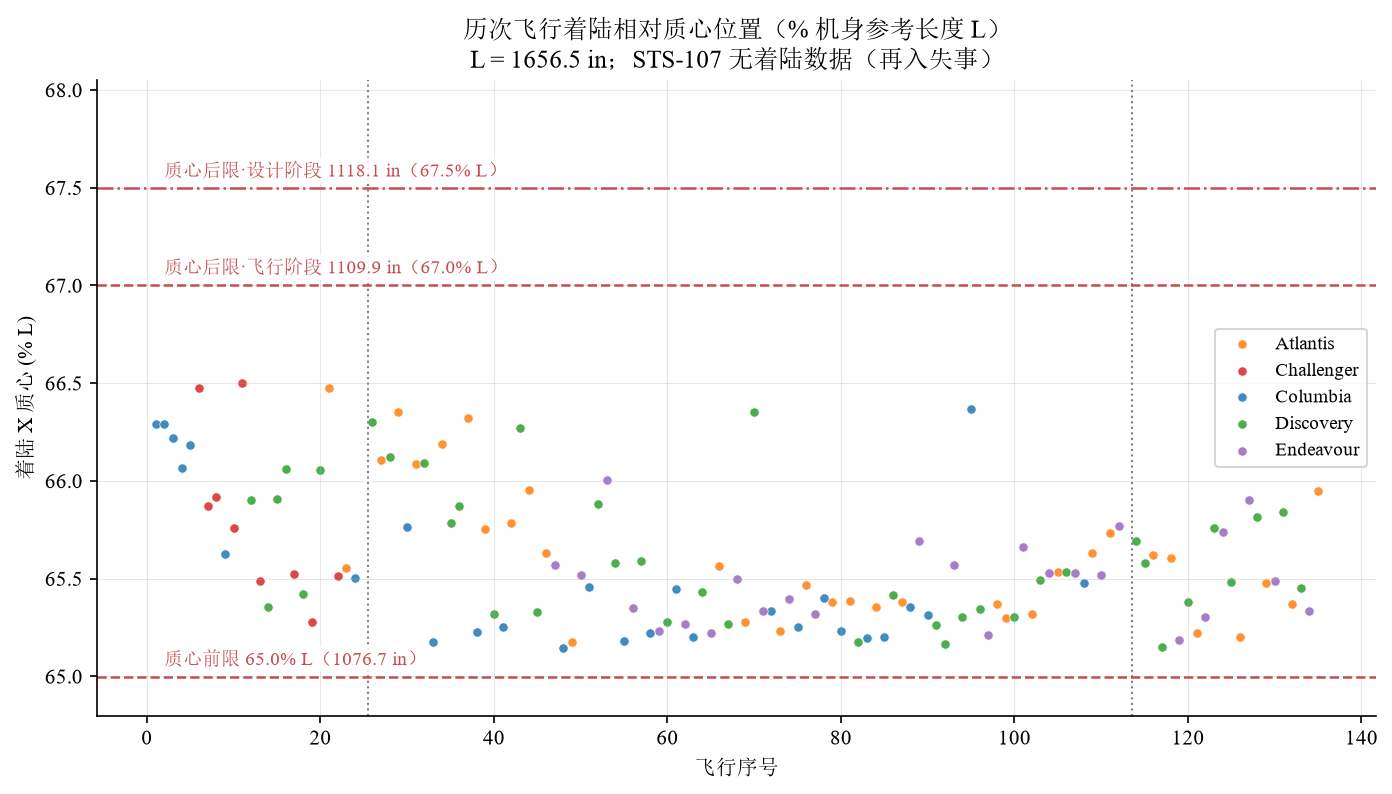
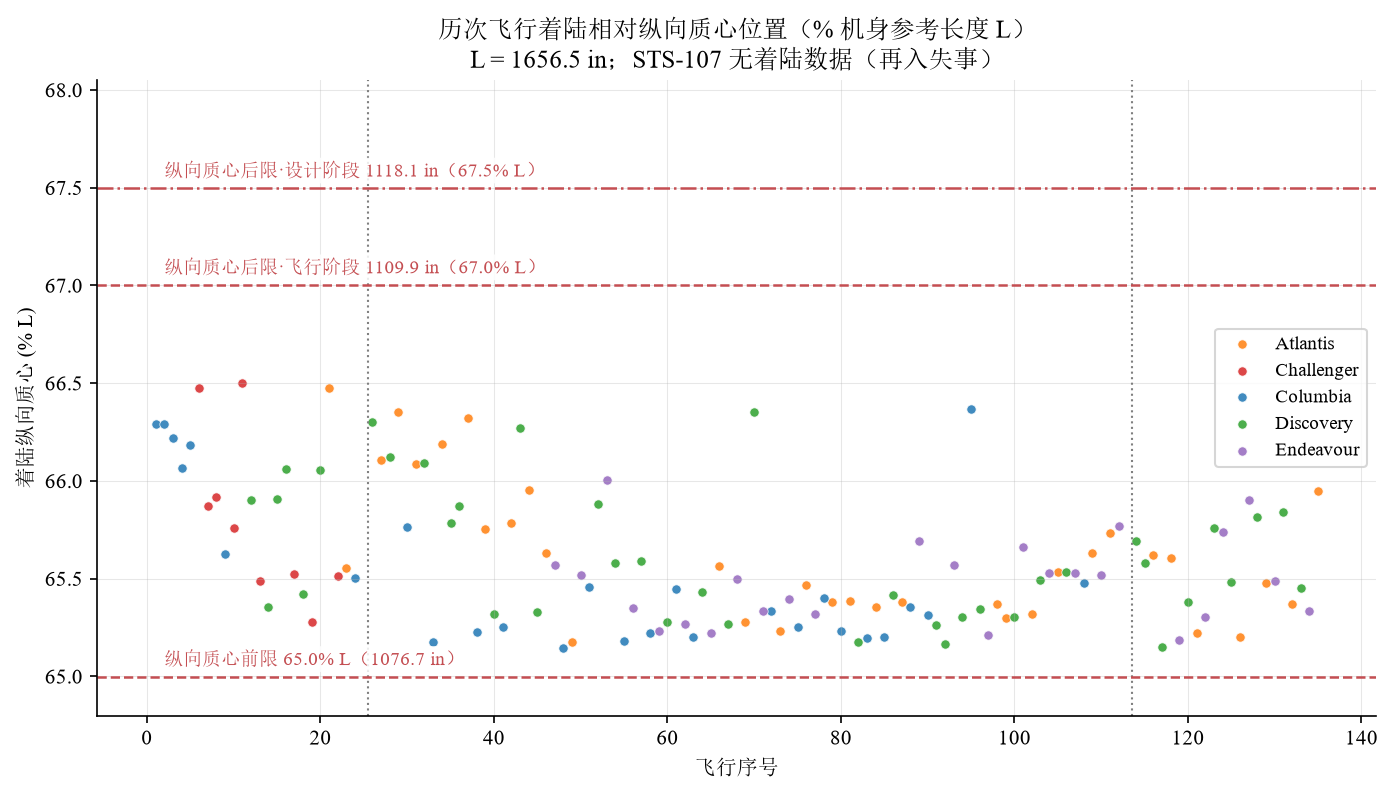
docs: unify c.g. terminology as longitudinal Xcg in reports and figures
Replace the mixed wording (X zhongxin / zhongxin / zhongxin-limit / X c.g. / center of gravity) with the single term longitudinal c.g. (zhongxiang zhixin) and the symbol Xcg across WEIGHTS_ANALYSIS.md, ANALYSIS.md, the generated validation report and its generator validate.py, PLAN.md and README.md. Figures 14/21/23/24/25 re-rendered with the same wording in titles, axis labels and the three limit annotations; analyze_weights.py rule-7 statistics text updated to match the report. All five figures re-passed visual review; pytest 25/25.

diff --git a/scripts/plots_weights_mks.py b/scripts/plots_weights_mks.py
@@ -142,7 +142,7 @@ def fig_propellant_loading(df):
 
 def _draw_xcg_panel(ax, d, ycol, df, ylabel, subtitle, fwd, aft, aft_design,
                     ylim, labels):
-    """Shared rendering for the X c.g. figures (limits + annotations).
+    """Shared rendering for the Xcg figures (limits + annotations).
 
     fwd/aft/aft_design/ylim are given in the panel's own y-units
     (metres or % of reference length); labels = (forward, aft-flight,
@@ -186,19 +186,19 @@ def fig_label(fig, ax, x, y, text, color="gray", fontsize=9, va="bottom",
 M_LIM = (CG_FWD_M, CG_AFT_M, CG_AFT_DESIGN_M, (27.25, 28.62))
 PCT_LIM = (CG_FWD_M / L_REF_M * 100, CG_AFT_M / L_REF_M * 100,
            CG_AFT_DESIGN_M / L_REF_M * 100, (64.8, 68.05))
-M_LABELS = ("质心前限 65.0% L（1076.7 in）",
-            "质心后限·飞行阶段 1109.9 in（67.0% L）",
-            "质心后限·设计阶段 1118.1 in（67.5% L）")
-PCT_LABELS = ("质心前限 65.0% L（1076.7 in）",
-              "质心后限·飞行阶段 1109.9 in（67.0% L）",
-              "质心后限·设计阶段 1118.1 in（67.5% L）")
+M_LABELS = ("纵向质心前限 65.0% L（1076.7 in）",
+            "纵向质心后限·飞行阶段 1109.9 in（67.0% L）",
+            "纵向质心后限·设计阶段 1118.1 in（67.5% L）")
+PCT_LABELS = ("纵向质心前限 65.0% L（1076.7 in）",
+              "纵向质心后限·飞行阶段 1109.9 in（67.0% L）",
+              "纵向质心后限·设计阶段 1118.1 in（67.5% L）")
 
 
 def fig_landing_xcg(df):
     fig, ax = plt.subplots(figsize=(11, 5.5))
     m = df.landing_xcg_m.apply(lambda v: isinstance(v, (int, float)))
-    _draw_xcg_panel(ax, df[m], "landing_xcg_m", df, "着陆 X 质心 (m)",
-                    "历次飞行着陆 X 质心（含前/后限）\n"
+    _draw_xcg_panel(ax, df[m], "landing_xcg_m", df, "着陆纵向质心 (m)",
+                    "历次飞行着陆纵向质心（含前/后限）\n"
                     "STS-107 无着陆数据（再入失事）",
                     *M_LIM, M_LABELS)
     return fig
@@ -207,7 +207,7 @@ def fig_landing_xcg(df):
 def fig_mach3_xcg(df):
     fig, ax = plt.subplots(figsize=(11, 5.5))
     m = df.mach3_eom_xcg_m.apply(lambda v: isinstance(v, (int, float)))
-    _draw_xcg_panel(ax, df[m], "mach3_eom_xcg_m", df, "Mach 3 EOM X 质心 (m)",
+    _draw_xcg_panel(ax, df[m], "mach3_eom_xcg_m", df, "Mach 3 EOM 纵向质心 (m)",
                     "历次飞行 Mach 3 EOM 纵向质心位置（含前/后限）\n"
                     "STS-107 与 DOD 任务无数据",
                     *M_LIM, M_LABELS)
@@ -215,30 +215,30 @@ def fig_mach3_xcg(df):
 
 
 def fig_landing_xcg_percent(df):
-    """与图 14 对应的相对质心位置版：X c.g. / L_ref，百分比表示。
+    """与图 14 对应的相对纵向质心位置版：Xcg / L_ref，百分比表示。
 
     限位线按 in 值精确换算：前限 1076.7/1656.5 = 65.00%；
-    后限·飞行阶段 1109.0/1656.5 ≈ 66.95%；后限·设计阶段 1118.1 in = 67.50%。
+    后限·飞行阶段 1109.9/1656.5 = 67.00%；后限·设计阶段 1118.1 in = 67.50%。
     """
     fig, ax = plt.subplots(figsize=(11, 5.5))
     m = df.landing_xcg_m.apply(lambda v: isinstance(v, (int, float)))
     d = df[m].copy()
     d["xcg_pct"] = d.landing_xcg_m / L_REF_M * 100.0
-    _draw_xcg_panel(ax, d, "xcg_pct", df, "着陆 X 质心 (% L)",
-                    "历次飞行着陆相对质心位置（% 机身参考长度 L）\n"
+    _draw_xcg_panel(ax, d, "xcg_pct", df, "着陆纵向质心 (% L)",
+                    "历次飞行着陆相对纵向质心位置（% 机身参考长度 L）\n"
                     "L = 1656.5 in；STS-107 无着陆数据（再入失事）",
                     *PCT_LIM, PCT_LABELS)
     return fig
 
 
 def fig_mach3_xcg_percent(df):
-    """与图 24 对应的相对质心位置版：Mach 3 EOM X c.g. / L_ref（%）。"""
+    """与图 24 对应的相对纵向质心位置版：Mach 3 EOM Xcg / L_ref（%）。"""
     fig, ax = plt.subplots(figsize=(11, 5.5))
     m = df.mach3_eom_xcg_m.apply(lambda v: isinstance(v, (int, float)))
     d = df[m].copy()
     d["xcg_pct"] = d.mach3_eom_xcg_m / L_REF_M * 100.0
-    _draw_xcg_panel(ax, d, "xcg_pct", df, "Mach 3 EOM X 质心 (% L)",
-                    "历次飞行 Mach 3 EOM 相对质心位置（% 机身参考长度 L）\n"
+    _draw_xcg_panel(ax, d, "xcg_pct", df, "Mach 3 EOM 纵向质心 (% L)",
+                    "历次飞行 Mach 3 EOM 相对纵向质心位置（% 机身参考长度 L）\n"
                     "L = 1656.5 in；STS-107 与 DOD 任务无数据",
                     *PCT_LIM, PCT_LABELS)
     return fig

diff --git a/scripts/analyze_weights.py b/scripts/analyze_weights.py
@@ -3,7 +3,7 @@
 Reads the weights_mks sheet of data/weights-revised.xlsx and produces
 figures 15-22 plus printed statistics: dry-weight drift per orbiter,
 stack composition, ET evolution (SLWT), weight distributions, landing
-vs dry weight, Mach-3 vs landing lockstep, X c.g. envelope against the
+vs dry weight, Mach-3 vs landing lockstep, Xcg envelope against the
 forward/aft limits, and SRB left/right symmetry.
 
 Chinese labels (units and acronyms like OMS/RCS stay English); run from
@@ -286,7 +286,7 @@ def fig_xcg_windows(df):
     fig_label(fig, ax1, 0.62, CG_AFT_M + 0.004, "后限·飞行", color="#c44e52")
     fig_label(fig, ax1, 0.62, CG_AFT_DESIGN_M + 0.004, "后限·设计",
               color="#c44e52")
-    ax1.set(title="着陆 X 质心窗口（按轨道器）", ylabel="着陆 X 质心 (m)")
+    ax1.set(title="着陆纵向质心窗口（按轨道器）", ylabel="着陆纵向质心 (m)")
 
     d = df.dropna(subset=["mach3_eom_xcg_m", "landing_xcg_m"])
     for orb, g in d.groupby("orbiter"):
@@ -303,18 +303,18 @@ def fig_xcg_windows(df):
     ax2.set_xlim(27.3, 28.55)
     ax2.set_ylim(27.3, 28.55)
     shift = d.landing_xcg_m - d.mach3_eom_xcg_m
-    ax2.set(title="着陆 X 质心 vs Mach 3 X 质心（红线为前/后限，虚线 y = x）",
-            xlabel="Mach 3 X 质心 (m)", ylabel="着陆 X 质心 (m)")
+    ax2.set(title="着陆纵向质心 vs Mach 3 纵向质心（红线为前/后限，虚线 y = x）",
+            xlabel="Mach 3 纵向质心 (m)", ylabel="着陆纵向质心 (m)")
     ax2.legend(fontsize=8)
 
     allx = pd.concat(data)
     STATS.append(
-        f"【规律 7】着陆质心严格受控：{len(allx)} 次着陆 X 质心全部落在前限 "
+        f"【规律 7】着陆纵向质心严格受控：{len(allx)} 次着陆纵向质心全部落在前限 "
         f"1076.7 in (65%L) 与飞行阶段后限 1109.9 in (67%L) 之间"
         f"（设计阶段后限 1118.1 in = 67.5%L 留有额外余量），"
         f"实际区间 [{allx.min():.3f}, {allx.max():.3f}] m，"
         f"仅占运营包线宽度的 {(allx.max() - allx.min()) / (CG_AFT_M - CG_FWD_M) * 100:.0f}%，"
-        f"且 Mach 3 → 着陆质心漂移极小（均值 {shift.mean() * 1000:+.0f} mm，"
+        f"且 Mach 3 → 着陆纵向质心漂移极小（均值 {shift.mean() * 1000:+.0f} mm，"
         f"sd {shift.std() * 1000:.0f} mm）")
     for ax in (ax1, ax2):
         style(ax)

diff --git a/scripts/validate.py b/scripts/validate.py
@@ -115,7 +115,7 @@ def internal_checks(m, j):
                          ("landing_xcg_in", "landing")):
         x = j.dropna(subset=[w_col])
         bad = x[(x[w_col] < 1000) | (x[w_col] > 1200)]
-        check(f"{label} X c.g. within 1000-1200 in", 2,
+        check(f"{label} Xcg within 1000-1200 in", 2,
               f"{len(x)} comparable rows",
               bad[["designation", w_col]] if len(bad) else [])
 
@@ -198,7 +198,7 @@ def main():
                "corrected in data/weights-revised.xlsx - payload becomes "
                "22828 lbs (~10.36 t), consistent with the Hubble servicing "
                "mission",
-               "- STS-5: Appendix A prints the Mach-3 EOM X c.g. as 2094.8 in "
+               "- STS-5: Appendix A prints the Mach-3 EOM Xcg as 2094.8 in "
                "(leading-digit misprint, physically impossible); should be "
                "1094.8 in per neighbouring flights and the landing value - "
                "corrected in data/weights-revised.xlsx",

diff --git a/docs/PLAN.md b/docs/PLAN.md
@@ -17,7 +17,7 @@
 | 数据源 | 位置 | 内容 | 提取难度 |
 |---|---|---|---|
 | 任务摘要页 | PDF 第 19–272 页，`Page 2-N-STS-X` 页眉 | 每任务 1–2 页 12 列表格：任务号、轨道器、乘组、发射/着陆数据、SSME/SRB/ET、轨道参数、载荷、任务要点 | **高**（多栏排版+照片导致纯文本行交错，需按词坐标切列） |
-| 附录 A 重量汇总 | PDF 第 273–281 页 | 135 次飞行的轨道器/OMS/RCS 推进剂、载荷、累积重量、性能余量、各阶段重量与 X 重心 | 中（规整表格，跨行续行需合并） |
+| 附录 A 重量汇总 | PDF 第 273–281 页 | 135 次飞行的轨道器/OMS/RCS 推进剂、载荷、累积重量、性能余量、各阶段重量与纵向质心 | 中（规整表格，跨行续行需合并） |
 | 附录 C 飞行主管日志 | PDF 第 291–294 页 | 飞行主管名单（辅助数据） | 低 |
 
 **技术路线：** Python 3.13 + venv（`.venv/`），`pdfplumber`（词级坐标提取）→ `pandas`（清洗）→
@@ -82,20 +82,20 @@ output/
 - [x] 新增 `weights_metric`→`weights_mks` 公制表单（lbs→kg ×0.45359237、in→m ×0.0254），
   逐格验证 2057 个换算值零误差
 - [x] 发现并修正源文档印刷错误 ×2：STS-125 两列对调（payload 22828 lbs ≈ 10.36 t）、
-  STS-5 Mach 3 X c.g. 2094.8→1094.8 in；`validate.py` 新增对应校验项与 known-gap 记录
+  STS-5 Mach 3 Xcg 2094.8→1094.8 in；`validate.py` 新增对应校验项与 known-gap 记录
   （现 0 errors / 5 warnings）
-- [x] `refs/` 补充质心包线等中文参考文档 ×2 → **已提交**
+- [x] `refs/` 补充纵向质心包线等中文参考文档 ×2 → **已提交**
 
 ### M7 — 重量深入分析 ✅（已完成）
-- [x] `scripts/plots_weights_mks.py`：图 11–14、23–28（起飞总重/载荷/推进剂/质心/着陆系列）
+- [x] `scripts/plots_weights_mks.py`：图 11–14、23–28（起飞总重/载荷/推进剂/纵向质心/着陆系列）
 - [x] `scripts/analyze_weights.py`：图 15–22 + 8 条统计规律输出
-- [x] 质心限位线：前限 1076.7 in（65%L）、飞行阶段后限 1109.9 in（67%L）、
+- [x] 纵向质心限位线：前限 1076.7 in（65%L）、飞行阶段后限 1109.9 in（67%L）、
   设计阶段后限 1118.1 in（67.5%L），L = 1656.5 in
 - [x] 图表经视觉模型多轮验收（碰撞/塌缩问题修复）→ **已提交**
 
 ### M8 — 图表规范化与重量分析报告 ✅（已完成）
 - [x] 全部 28 张图：中文宋体 + 西文/数字 Times New Roman（font.family 回退链）；
-  术语统一（质心/起飞总重/载荷/着陆载荷）
+  术语统一（纵向质心 Xcg/起飞总重/载荷/着陆载荷）
 - [x] 规避 matplotlib 3.11.2 小字号自由文本中文静默塌缩缺陷（`fig_label` + 字号≥9）
 - [x] `output/reports/WEIGHTS_ANALYSIS.md` 重量深入分析报告；ANALYSIS.md/PLAN.md/README.md 同步更新
 - [x] requirements.txt 与环境核对一致 → **本次提交**

diff --git a/README.md b/README.md
@@ -9,7 +9,7 @@
 | 文件 | 内容 | 规模 |
 |---|---|---|
 | `data/missions.csv` | 每任务一行：任务号、轨道器、发射/着陆时间（GMT）、任务时长、乘组、飞行主管、轨道参数、关键事件 MET、着陆场等 | 136 行 × 60 列 |
-| `data/weights.csv` | 附录 A 重量表：轨道器/推进剂/载荷/ET/SRB 重量、累积重量、Mach 3 与着陆重量及重心 | 135 行 × 30 列 |
+| `data/weights.csv` | 附录 A 重量表：轨道器/推进剂/载荷/ET/SRB 重量、累积重量、Mach 3 与着陆重量及纵向质心 | 135 行 × 30 列 |
 | `data/weights-revised.xlsx` | 人工校对版重量数据（含 2 处源文档印刷错误修正）：`weights`（lbs/in）+ `weights_mks`（kg/m）双表单 | 135 行 × 19 列 ×2 |
 | `data/space_shuttle_missions.xlsx` | 汇总工作簿（4 sheet：Missions / Weights_AppendixA / Reference_Wikipedia / Summary） | — |
 | `data/reference/wiki_sts_list.csv` | 外部核对参考（Wikipedia 任务列表，已入库） | 135 行 |
@@ -20,7 +20,7 @@
 data/           # 提取出的数据集与汇总工作簿
   reference/          # 外部核对参考数据
 docs/           # 项目文档（PLAN.md 工作计划）
-refs/           # NASA 源 PDF（40MB）+ 质心包线等中文参考文档（均已入库）
+refs/           # NASA 源 PDF（40MB）+ 纵向质心包线等中文参考文档（均已入库）
 scripts/        # 提取/校验/绘图/分析/工作簿脚本
 tests/          # pytest 单元测试（25 项）
 output/
@@ -85,7 +85,7 @@ python -m pytest
 - **外部核对**：发射日期 135/135、轨道器 135/135、时长 134/135、乘组 134/135
   与 Wikipedia 任务列表一致（差异项均为文档口径问题，详见报告）
 - **源文档勘误**（已在 `weights-revised.xlsx` 修正并记录）：STS-125 两列重量对调、
-  STS-5 Mach 3 质心首位数字误排
+  STS-5 Mach 3 纵向质心首位数字误排
 - 详见 [`output/reports/validation_report.md`](output/reports/validation_report.md)、
   [`output/reports/ANALYSIS.md`](output/reports/ANALYSIS.md) 与
   [`output/reports/WEIGHTS_ANALYSIS.md`](output/reports/WEIGHTS_ANALYSIS.md)

diff --git a/output/reports/ANALYSIS.md b/output/reports/ANALYSIS.md
@@ -10,7 +10,7 @@
 | 文件 | 内容 | 规模 |
 |---|---|---|
 | `data/missions.csv` | 每任务一行：任务号、轨道器、发射/着陆时间（GMT）、任务时长、乘组、飞行主管、轨道参数、关键事件 MET、着陆场等 | 136 行 × 60 列 |
-| `data/weights.csv` | 附录 A 重量表：轨道器/推进剂/载荷/ET/SRB 重量、累积重量、Mach 3 与着陆重量及重心 | 135 行 × 30 列 |
+| `data/weights.csv` | 附录 A 重量表：轨道器/推进剂/载荷/ET/SRB 重量、累积重量、Mach 3 与着陆重量及纵向质心 | 135 行 × 30 列 |
 | `data/weights-revised.xlsx` | 人工校对版重量数据（含 2 处源文档印刷错误修正）：`weights`（lbs/in）+ `weights_mks`（kg/m）双表单 | 135 行 × 19 列 ×2 |
 | `data/space_shuttle_missions.xlsx` | 以上数据 + Wikipedia 参考数据 + 统计汇总（4 个 sheet） | — |
 | `data/reference/wiki_sts_list.csv` | 外部核对参考（Wikipedia 任务列表） | 135 行 |
@@ -85,8 +85,8 @@
 
 基于人工校对版 `data/weights-revised.xlsx`（公制单位）的扩展分析，共 18 张图
 （中文标注）：起飞总重与构成、载荷、推进剂加注、着陆重量与着陆载荷、轨道器干重演化、
-ET 减重阶梯、Mach 3/着陆 X 质心（含前/后限包线）、SRB 左右对称性等。
-8 条统计规律、质心限值定义（前限 1076.7 in / 飞行后限 1109.9 in / 设计后限 1118.1 in）
+ET 减重阶梯、Mach 3/着陆纵向质心（含前/后限包线）、SRB 左右对称性等。
+8 条统计规律、纵向质心限值定义（前限 1076.7 in / 飞行后限 1109.9 in / 设计后限 1118.1 in）
 及两处源文档印刷错误修正（STS-125 列对调、STS-5 首位数字误排）详见
 **[`WEIGHTS_ANALYSIS.md`](WEIGHTS_ANALYSIS.md)**。
 

diff --git a/output/reports/validation_report.md b/output/reports/validation_report.md
@@ -24,8 +24,8 @@ Reference: Wikipedia List of Space Shuttle missions, 135 rows, joined 135
 | cross-source: landing weight (page vs Appendix A) | warning | 0 |
 | liftoff weight = orbiter+payload+ET+2xSRB (<5000 lbs) | warning | 3 |
 | orbit-insert weight <= orbiter+payload | warning | 1 |
-| Mach-3 EOM X c.g. within 1000-1200 in | warning | 1 |
-| landing X c.g. within 1000-1200 in | warning | 0 |
+| Mach-3 EOM Xcg within 1000-1200 in | warning | 1 |
+| landing Xcg within 1000-1200 in | warning | 0 |
 | inclination range 28-62.5 deg | error | 0 |
 | duration range 0-440 h | error | 0 |
 | external: launch dates match Wikipedia | error | 0 |
@@ -40,7 +40,7 @@ Known gaps inherent to the source document (not extraction errors):
 - STS 51-L and STS-107 have no landing data (accidents)
 - STS 51-E is a cancelled mission (crew info only)
 - STS-125: Appendix A prints the orbiter+payload and orbit-insert weights transposed (231548/254376 lbs); corrected in data/weights-revised.xlsx - payload becomes 22828 lbs (~10.36 t), consistent with the Hubble servicing mission
-- STS-5: Appendix A prints the Mach-3 EOM X c.g. as 2094.8 in (leading-digit misprint, physically impossible); should be 1094.8 in per neighbouring flights and the landing value - corrected in data/weights-revised.xlsx
+- STS-5: Appendix A prints the Mach-3 EOM Xcg as 2094.8 in (leading-digit misprint, physically impossible); should be 1094.8 in per neighbouring flights and the landing value - corrected in data/weights-revised.xlsx
 
 Documented disagreements between TM-2011-216142 and the Wikipedia reference list:
 - STS-60 duration: document 8d07h (GMT-consistent, matches NASA mission archive) vs list page 7d06h - document kept
